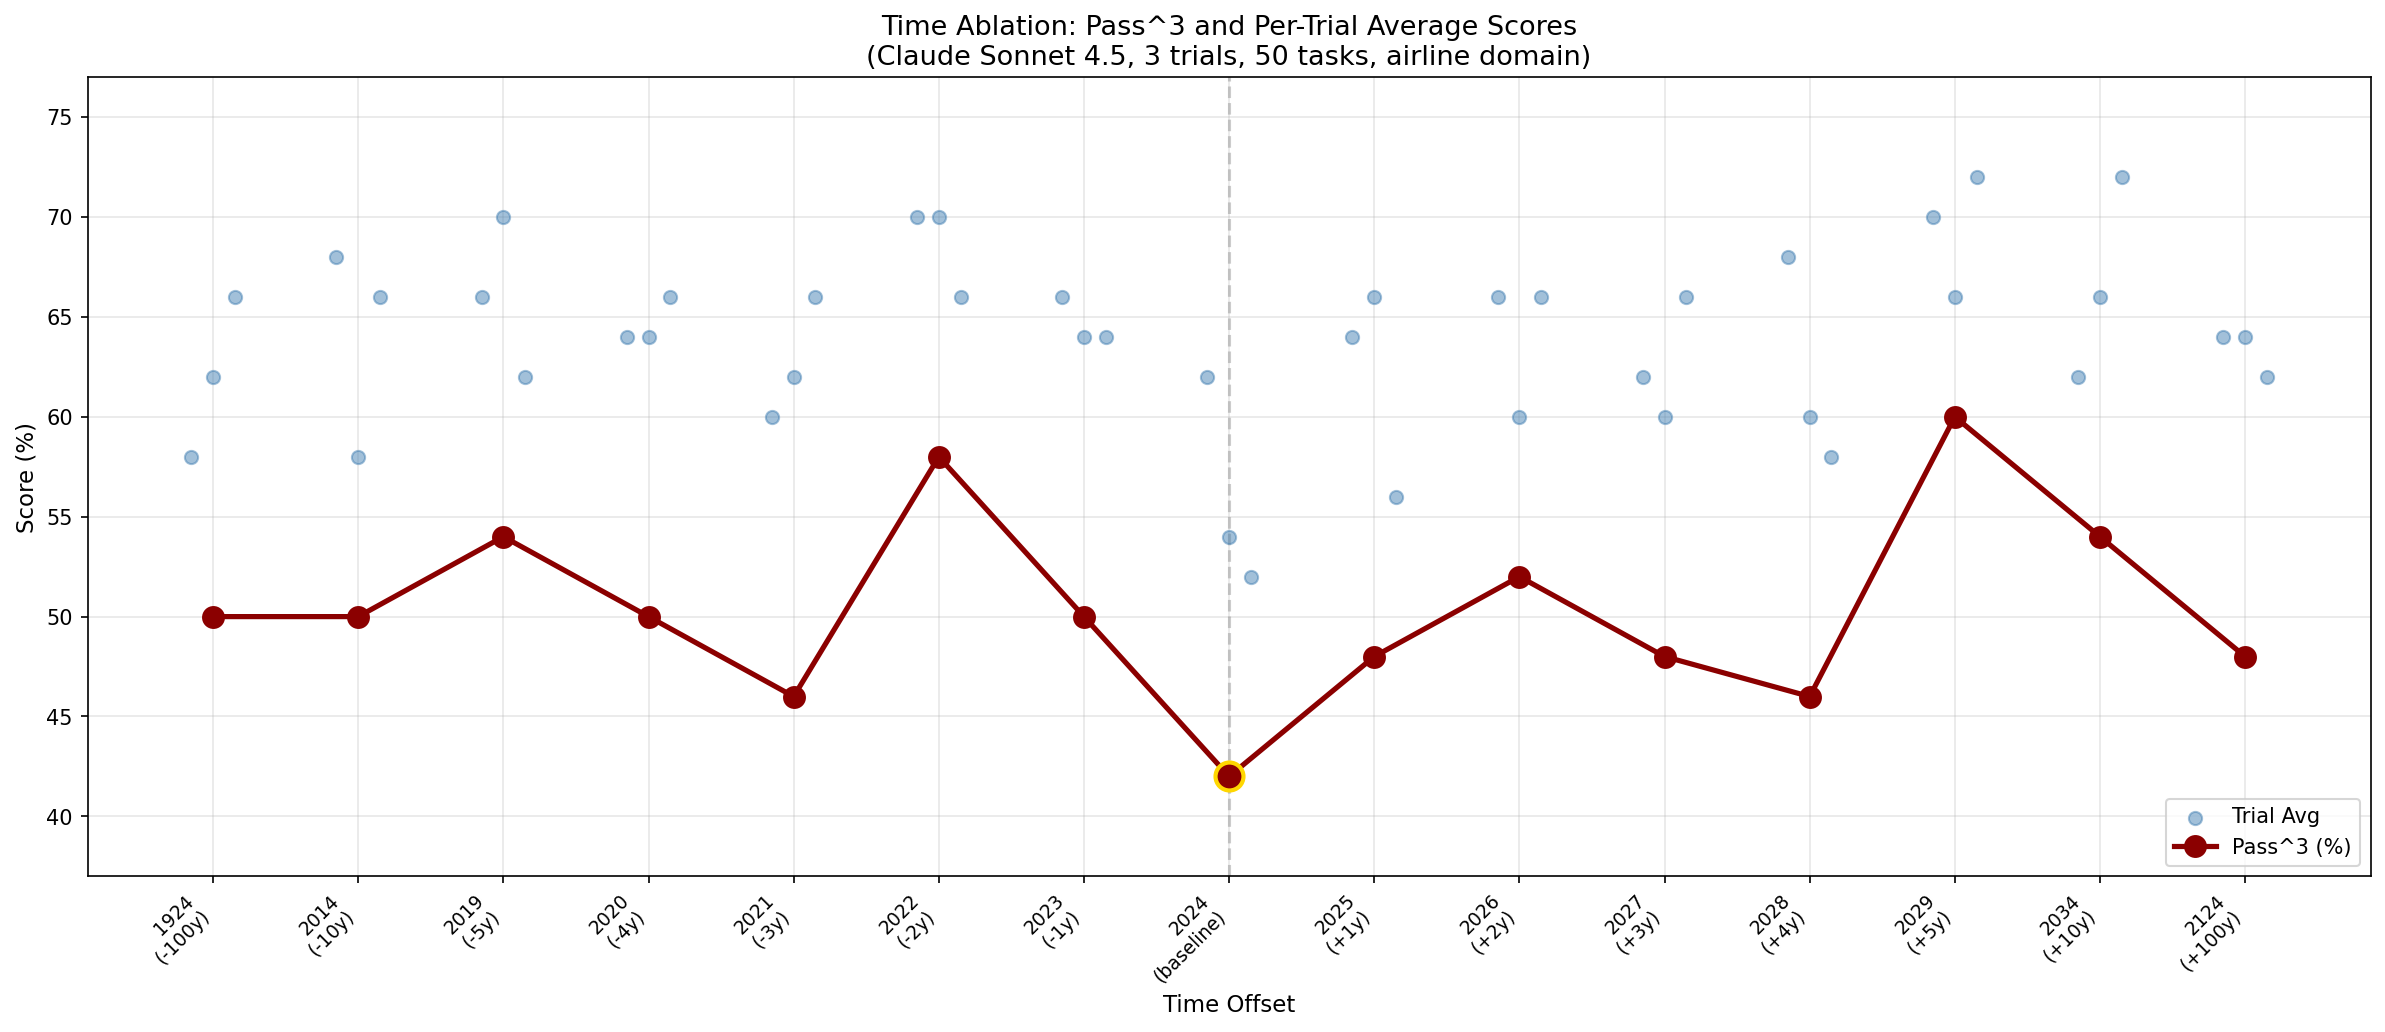
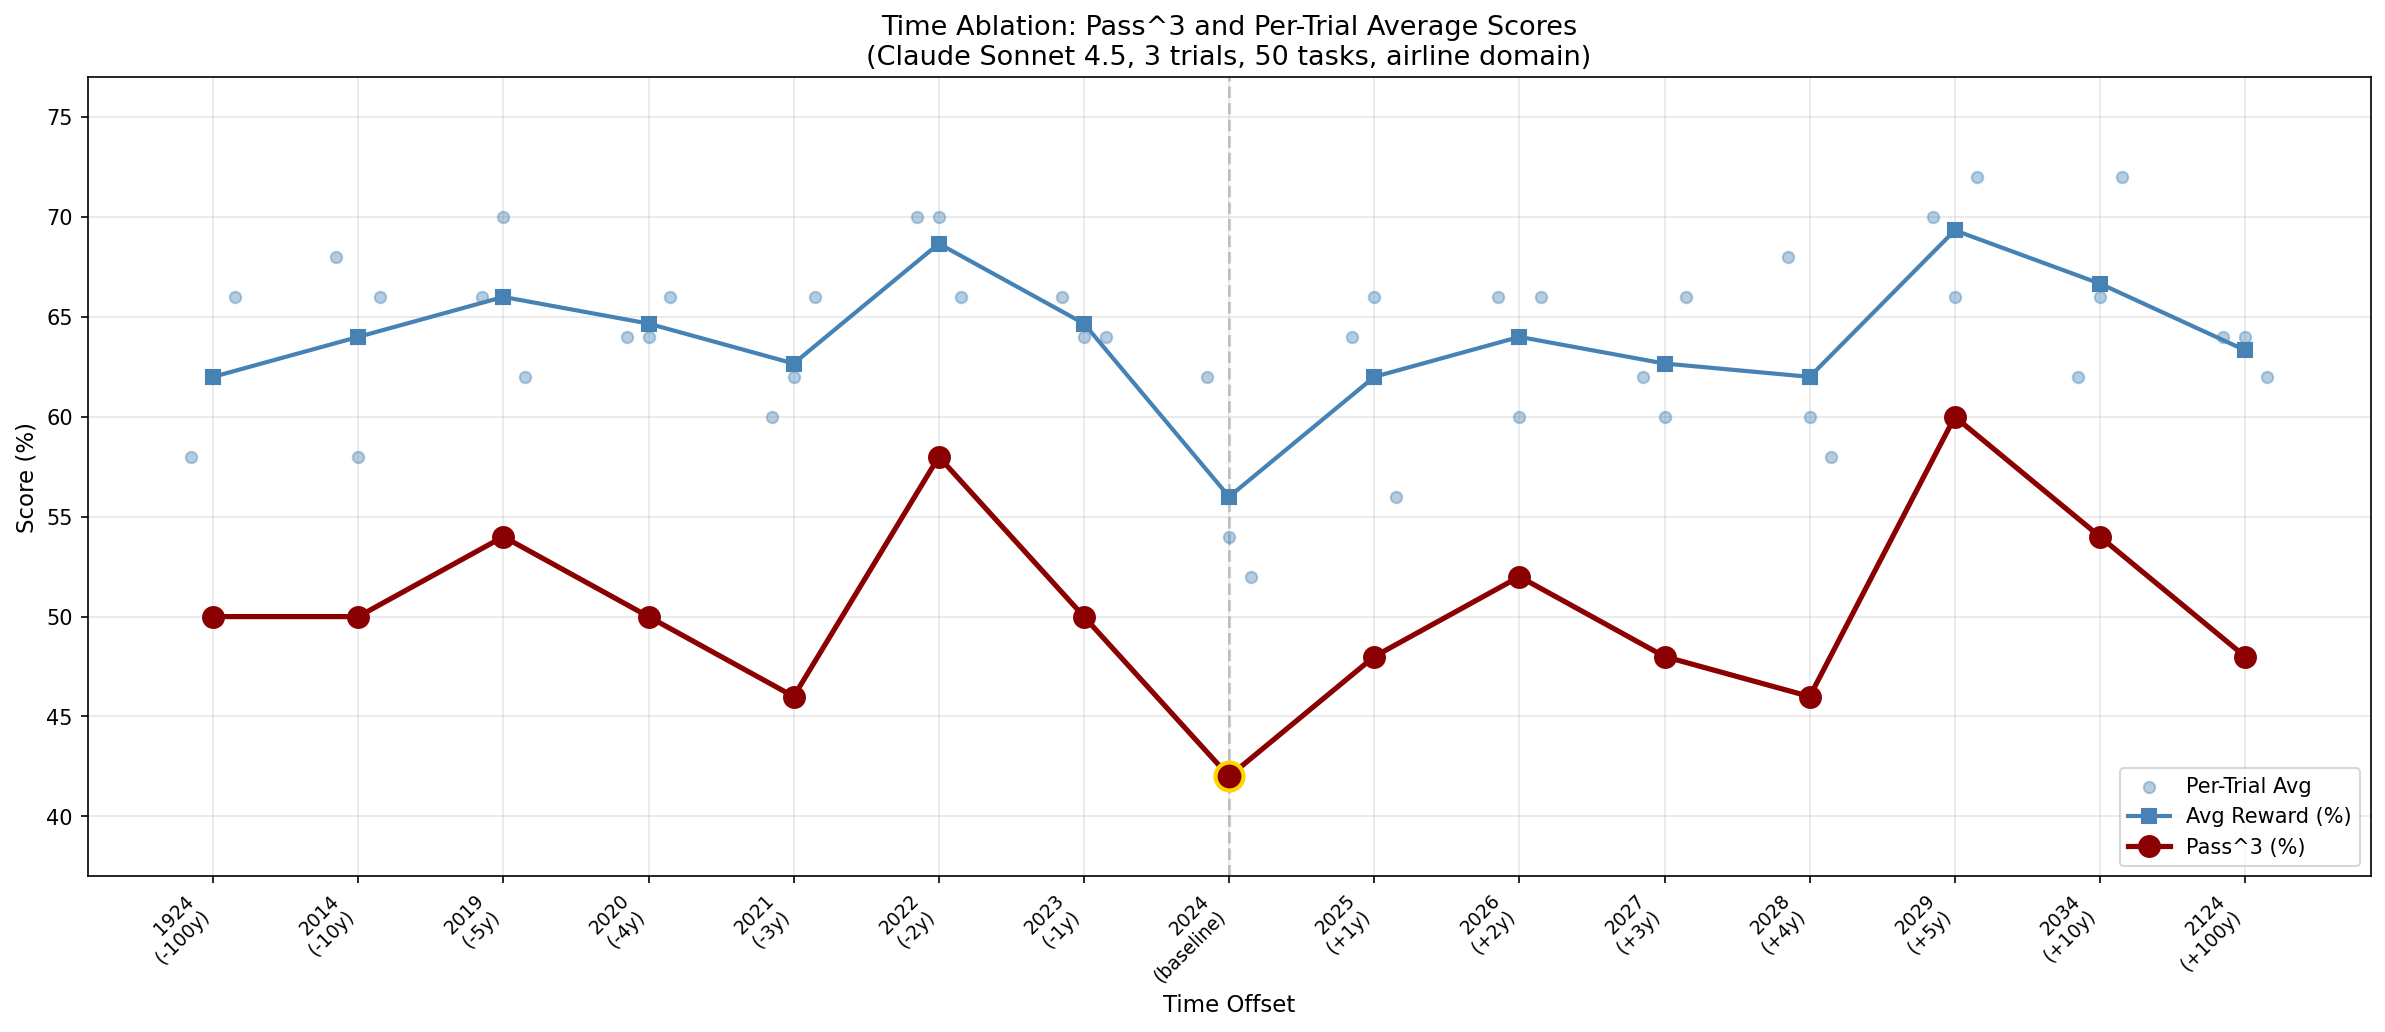
Add average reward line to performance plot

diff --git a/src/experiments/time_ablation/plot.py b/src/experiments/time_ablation/plot.py
@@ -119,6 +119,7 @@ def generate_time_ablation_plot(
 
     offsets = [r["offset"] for r in results]
     pass_k_values = [r["pass_k"] for r in results]
+    avg_reward_values = [np.mean(r["trial_avg_rewards"]) for r in results]
 
     # Use sequential x-positions for even spacing (avoids extreme scale issues)
     x_positions = list(range(len(offsets)))
@@ -131,11 +132,23 @@ def generate_time_ablation_plot(
         for trial_idx, avg in enumerate(r["trial_avg_rewards"]):
             jitter = (trial_idx - 1) * 0.15
             ax.scatter(
-                x_positions[i] + jitter, avg, alpha=0.5, s=40, c="steelblue", zorder=3
+                x_positions[i] + jitter, avg, alpha=0.4, s=30, c="steelblue", zorder=3
             )
 
     # Add one label for legend
-    ax.scatter([], [], alpha=0.5, s=40, c="steelblue", label="Trial Avg")
+    ax.scatter([], [], alpha=0.4, s=30, c="steelblue", label="Per-Trial Avg")
+
+    # Plot average reward line
+    ax.plot(
+        x_positions,
+        avg_reward_values,
+        "s-",
+        color="steelblue",
+        linewidth=2,
+        markersize=7,
+        label="Avg Reward (%)",
+        zorder=4,
+    )
 
     # Plot Pass^3 line
     ax.plot(
